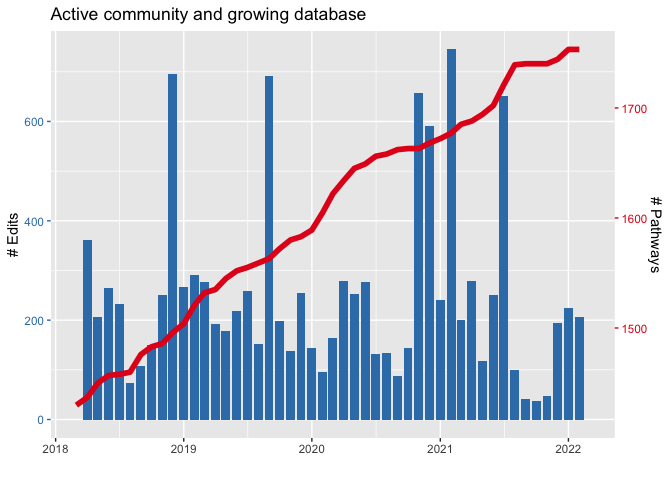
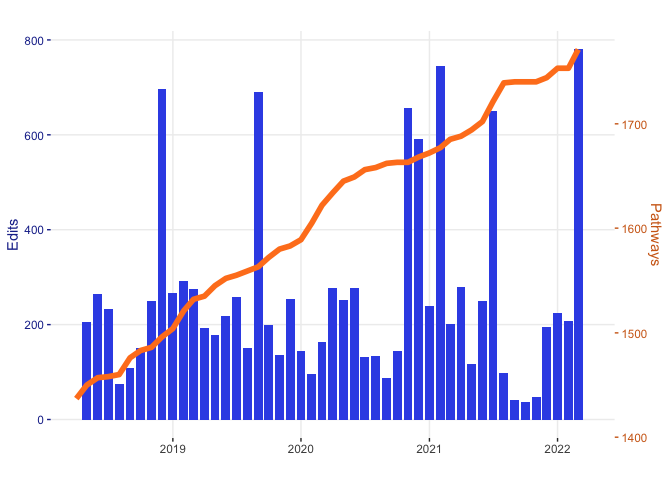
knitted stats.Rmd for March

diff --git a/_rmd/stats.md b/_rmd/stats.md
@@ -69,6 +69,9 @@ Next, let’s plot a time series
 ``` r
 # RColorBrewer::display.brewer.all()
 bcols <- RColorBrewer::brewer.pal(3,"Set1")
+acols <- bcols
+bcols <- c("#FF8120","#3955E7")
+acols <- c("#D16919","#1E3199")
 
 # date range for x-axis
 Ym.end <- wpid.all.df.cnts[nrow(wpid.all.df.cnts),1]+1 #inclusive of final month
@@ -88,16 +91,25 @@ p <- ggplot(combo.df) +
   scale_x_date(date_breaks = "1 year", date_labels = "%Y",
                name = "",
                limits = c(as.Date(strptime(paste0(Ym.start,"01"),"%Y%m%d")),as.Date(strptime(paste0(Ym.end,"01"),"%Y%m%d")))) +
-  scale_y_continuous(name="# Edits", 
+  scale_y_continuous(name="Edits", 
                      limits = ylim.prim,
                      sec.axis=sec_axis(~ (. - a)/b, 
-                                       name="# Pathways")) +
-  ggtitle("Active community and growing database") +
+                                       name="Pathways")) +
+  ggtitle("") +
   xlab("") +
-  theme(axis.text.y.left=element_text(colour=bcols[2]),
-        axis.text.y.right=element_text(colour=bcols[1]),
-        axis.ticks.y.left=element_line(colour=bcols[2]),
-        axis.ticks.y.right=element_line(colour=bcols[1]))
+  theme(axis.text.y.left=element_text(colour=acols[2]),
+        axis.text.y.right=element_text(colour=acols[1]),
+        axis.ticks.y.left=element_line(colour=acols[2]),
+        axis.ticks.y.right=element_line(colour=acols[1]),
+        axis.title.y.left = element_text(colour=acols[2]),
+        axis.title.y.right = element_text(colour=acols[1]),
+        panel.grid.major = element_line(color="#eeeeee"), 
+        panel.background = element_rect(fill='transparent'), #transparent panel bg
+        plot.background = element_rect(fill='transparent', color=NA), #transparent plot bg
+        panel.grid.minor = element_blank(), #remove minor gridlines
+        legend.background = element_rect(fill='transparent'), #transparent legend bg
+        legend.box.background = element_rect(fill='transparent') #transparent legend panel
+)
 
 
 p
@@ -107,7 +119,7 @@ p
 
 ``` r
 ggsave("../assets/img/main_stats.png", plot = last_plot(), 
-       width = 1100, height = 550, units = "px", dpi = 250)
+       width = 1100, height = 550, units = "px", dpi = 250, bg='transparent')
 ```
 
 Now, let’s make pngs per month for animation!
@@ -117,24 +129,33 @@ Now, let’s make pngs per month for animation!
 for(i in seq(nrow(combo.df),1)){
   combo.df.anim<-combo.df[1:i,]
   
-  p <- ggplot(combo.df.anim) +
-    geom_bar(aes(x = as.Date(date),y=edits),stat="identity", fill=bcols[2]) +
-    geom_line(data=na.omit(combo.df.anim), 
-              aes(x = as.Date(date),y=a + pathways * b), 
-              color = bcols[1], size = 2) +
-    scale_x_date(date_breaks = "1 year", date_labels = "%Y",
-                 name = "",
-                 limits = c(as.Date(strptime(paste0(Ym.start,"01"),"%Y%m%d")),as.Date(strptime(paste0(Ym.end,"01"),"%Y%m%d")))) +
-    scale_y_continuous(name="# Edits", 
-                       limits = ylim.prim,
-                       sec.axis=sec_axis(~ (. - a)/b, 
-                                         name="# Pathways")) +
-    ggtitle("Active community and growing database") +
-    xlab("") +
-    theme(axis.text.y.left=element_text(colour=bcols[2]),
-          axis.text.y.right=element_text(colour=bcols[1]),
-          axis.ticks.y.left=element_line(colour=bcols[2]),
-          axis.ticks.y.right=element_line(colour=bcols[1]))
+p <- ggplot(combo.df.anim) +
+  geom_bar(aes(x = as.Date(date),y=edits),stat="identity", fill=bcols[2]) +
+  geom_line(data=na.omit(combo.df.anim), 
+            aes(x = as.Date(date),y=a + pathways * b), 
+            color = bcols[1], size = 2) +
+  scale_x_date(date_breaks = "1 year", date_labels = "%Y",
+               name = "",
+               limits = c(as.Date(strptime(paste0(Ym.start,"01"),"%Y%m%d")),as.Date(strptime(paste0(Ym.end,"01"),"%Y%m%d")))) +
+  scale_y_continuous(name="Edits", 
+                     limits = ylim.prim,
+                     sec.axis=sec_axis(~ (. - a)/b, 
+                                       name="Pathways")) +
+  ggtitle("") +
+  xlab("") +
+  theme(axis.text.y.left=element_text(colour=acols[2]),
+        axis.text.y.right=element_text(colour=acols[1]),
+        axis.ticks.y.left=element_line(colour=acols[2]),
+        axis.ticks.y.right=element_line(colour=acols[1]),
+        axis.title.y.left = element_text(colour=acols[2]),
+        axis.title.y.right = element_text(colour=acols[1]),
+        panel.grid.major = element_line(color="#eeeeee"), 
+        panel.background = element_rect(fill='transparent'), #transparent panel bg
+        plot.background = element_rect(fill='transparent', color=NA), #transparent plot bg
+        panel.grid.minor = element_blank(), #remove minor gridlines
+        legend.background = element_rect(fill='transparent'), #transparent legend bg
+        legend.box.background = element_rect(fill='transparent') #transparent legend panel
+)
   
   
   p
@@ -156,6 +177,13 @@ anim.img.list %>%
   image_animate(delay=as.integer(3*100/nrow(combo.df)), #first number is total seconds for all frames to play
                 loop = 1) %>% # number of repeat plays
   image_write("../assets/img/main_stats.gif") # write to current dir
+
+anim.img.list %>% 
+  image_read() %>% # reads each path file
+  image_join() %>% # joins image
+  image_animate(delay=as.integer(3*100/nrow(combo.df)), #first number is total seconds for all frames to play
+                loop = 0) %>% # number of repeat plays
+  image_write("../assets/img/main_stats_inf.gif") # write to current dir
 
 #clean up
 lapply(anim.img.list, function(fn){
